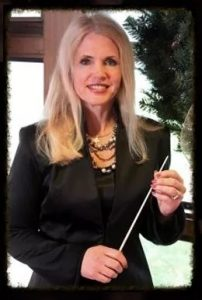
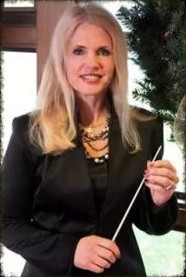
Deploying to gh-pages from @ funblaster22/IMSAband@9ff1ee3c521d04bfa2fb4868a1602b7d36afcda6 🚀

diff --git a/about/index.html b/about/index.html
@@ -1,1 +1,1 @@
-<!doctype html><html lang="en"><head><meta charset="utf-8"><link rel="icon" href="/IMSAband/public/favicon.png"><meta name="viewport" content="width=device-width,initial-scale=1"><link rel="stylesheet" type="text/css" href="/IMSAband/public/style.css"><script async src="https://www.googletagmanager.com/gtag/js?id=G-LPWGF8HK8P"></script><script src="/IMSAband/public/global.js"></script><title>About - IMSA Music</title><meta name="description" content="Get to know the band director"><meta name="robots" content="index,follow"><meta name="author" content="Ethan Dawes"><link rel="canonical" href="https://funblaster22.github.io/IMSAband/about/"><meta property="og:title" content="About - IMSA Music"><meta property="og:type" content="article"><meta property="og:url" content="https://funblaster22.github.io/IMSAband/about/"><meta property="og:description" content="Get to know the band director"><meta property="og:image" content="https://funblaster22.github.io/IMSAband/public/hl9pJ1HHdf-1313.jpeg"><meta name="twitter:card" content="summary"><meta name="twitter:url" content="https://funblaster22.github.io/IMSAband/about/"><meta name="twitter:title" content="About - IMSA Music"><meta name="twitter:description" content="Get to know the band director"><meta name="twitter:image" content="https://funblaster22.github.io/IMSAband/public/hl9pJ1HHdf-1313.jpeg"></head><body><a class="skip-to-content" href="#main">Skip to content</a><nav class="navbar navbar-expand-md navbar-dark"><a href="/IMSAband/"><img src="/IMSAband/public/favicon.png" alt="IMSA band logo" style="height:3em;width:auto"></a><a href="/IMSAband/pages/" class="navbar-toggler"><button type="button" data-bs-toggle="collapse" data-bs-target="#navbarNav" aria-controls="navbarNav" aria-expanded="false" aria-label="Toggle navigation"><span class="navbar-toggler-icon">☰</span></button></a><div class="collapse navbar-collapse" id="navbarNav"><ul class="navbar-nav"><li class="nav-item"><a href="/IMSAband/ensembles/band/" class="nav-link">Band</a></li><li class="nav-item"><a href="/IMSAband/ensembles/orchestra/" class="nav-link">Orchestra</a></li><li class="nav-item"><a href="/IMSAband/photos/" class="nav-link">Photos</a></li><li class="nav-item"><a href="/IMSAband/concerts/" class="nav-link">Concerts</a></li><li class="nav-item"><a href="https://funblaster22.github.io/PitchRead/" class="nav-link">Practice</a></li><li class="nav-item" aria-current="page"><a href="/IMSAband/about/" class="nav-link">About</a></li><li class="nav-item"><a href="/IMSAband/calendar/" class="nav-link">Calendar</a></li><li class="nav-item social"><a href="https://www.youtube.com/user/IMSAschool/search?query=concert" target="_blank" rel="noopener noreferrer" class="nav-link"><img src="/IMSAband/public/youtube.svg"></a></li><li class="nav-item social"><a href="https://www.facebook.com/IMSA-Music-Parents-Page-105564110884454/" target="_blank" rel="noopener noreferrer" class="nav-link"><img src="/IMSAband/public/facebook.svg"></a></li><li class="nav-item social"><a href="https://funblaster22.github.io/PitchRead/" target="_blank" class="nav-link"><img src="/IMSAband/public/music-note.svg"></a></li></ul></div></nav><a name="main"></a><main><style>.post{place-items:normal}.postTitle{font-size:4rem;line-height:1.1;margin-bottom:2rem}@media (min-width:768px){.wrapper{flex-direction:row!important;gap:1em}}.wrapper{display:flex;flex-direction:column}.suggestions{gap:1rem}.suggestions *{margin:0}</style><link rel="stylesheet" type="text/css" href="/IMSAband/public/card.css"><div class="parallax-container"><picture><source type="image/avif" srcset="/IMSAband/public/hl9pJ1HHdf-1313.avif 1313w"><img alt="" loading="lazy" decoding="async" style="" class="parallax hero hero-sm" src="/IMSAband/public/hl9pJ1HHdf-1313.jpeg" width="1313" height="636"></picture></div><div class="wrapper post"><div class="content"><h1 class="postTitle">About</h1><h3>Ms. McCarthy</h3><div><picture><source type="image/avif" srcset="/IMSAband/public/buWRGyJ4xz-202.avif 202w"><img alt="Mary Beth McCarthy" loading="lazy" decoding="async" style="float:left;margin:1em" class="" src="/IMSAband/public/buWRGyJ4xz-202.jpeg" width="202" height="300"></picture>Mary Beth McCarthy serves as the Director of instrumental Music at IMSA. During McCarthy’s initial tenure at IMSA, the department grew to include two choirs, two bands, and an orchestra. Since her return to IMSA, McCarthy has revitalized the Strolling Strings Ensemble and the Chamber Strings Orchestra, as well as has added a Symphony Orchestra to IMSA’s repertoire of performing ensembles. She began her music career performing with the Chicago and DuPage Youth Symphony Orchestras. As a violinist and flautist, Ms. McCarthy has performed under many batons, including those of Gordon Peters, Dudley Powers and John Svoboda. Her primary instruments were piano, violin and flute. She won a place in the International Bel Canto Competition, and worked towards performance preparation with Met Soprano Martina Arroyo, La Scala Bass Giorgio Tozzi and San Francisco Opera Coach Natalie Limonick. Since then, she has performed with the Lincoln Opera Company, and in a variety of primary roles in numerous area productions from oratorios to musicals. She also conducts area Instrumental Chamber Ensembles and serves as Conductor and Artistic Director of the Fox Valley Festival Chorus. Recent performances as a conductor or artist include Carnegie Hall (2013), Lincoln Center (2015), The Vatican (2017) and the Rock and Roll Hall of Fame, Mainstage (2019). Her many ensembles have performed at numerous venues, from the Julliard School of Music, NY, to the Javelena Recording Studios in Nashville, TN, to Casa Loma Castle in Canada. One of Ms. McCarthy’s favorite travel memories was when she conducted the Wind Ensemble, as they were performing The Stars and Stripes Forever on the steps of Congress. Another was with the Strolling Strings, when they were invited to perform at the Drake Hotel, Chicago, for Holiday Tea. In 2012, McCarthy received, an award of excellence for Service to the Kane County Community. The other two recipients were the Mayor of Aurora and the Kane County Sheriff. In 2017, Ms. McCarthy and her Ensemble, were presented with the Seal of the City of Aurora. A favorite research experience was work on a Richter Fellowship, which took her to the British Isles. The title of her narrative music/history project was “The Anglo-Irish Conflict Illustrated by the Folk Song.” While in the Isles, she traveled to Cambridge and Oxford and interviewed members of Parliament. McCarthy also interviewed both the Administration of the Cecil Sharp House, London and Michael O’Sullibaen, foremost authority of Irish Folk Music at the University of Cork, Ireland. Her current research pertains to problem-based learning and learner-center processing strategies that expedite student assimilation and absorption of music knowledge. Ms. McCarthy received her undergraduate degree from North Central College in Naperville and her graduate degree from Northwestern University in Evanston. She served on the Northwestern Alumni Board of Directors for five years. Some of her professional affiliations include the Music Educators’ National Conference (MENC), the Illinois Music Educators Association (ILMEA), and the Association for Supervision and Curriculum Development (ASCD).</div><h3>Student Credits</h3><ul><li>Ethan Dawes: Programmer</li><li>Ebba Kaulas: Logo designer</li><li>Cole Plepel: Design prototyping</li><li>Christian Cline: Photos</li></ul></div><div class="suggestions" style="display:flex;flex-direction:column;align-items:center;flex-grow:1"><h3>Related:</h3><a href="."><div class="card"><picture><source type="image/avif" srcset="/IMSAband/public/olwqoCmvtF-4032.avif 4032w"><img alt="" loading="lazy" decoding="async" style="" class="" src="/IMSAband/public/olwqoCmvtF-4032.jpeg" width="4032" height="3024"></picture><em>2022-01-23</em> <strong>New Website!</strong> IMSA bands now have their own website!</div></a></div></div></main><footer class="footer" style="background-color:#000"><picture><source type="image/avif" srcset="/IMSAband/public/-fcQluZmzO-2832.avif 2832w"><img alt="IMSA Titans logo" loading="lazy" decoding="async" style="max-width:100%;object-fit:contain;max-height:190px" class="" src="/IMSAband/public/-fcQluZmzO-2832.jpeg" width="2832" height="1523"></picture></footer></body></html>
+<!doctype html><html lang="en"><head><meta charset="utf-8"><link rel="icon" href="/IMSAband/public/favicon.png"><meta name="viewport" content="width=device-width,initial-scale=1"><link rel="stylesheet" type="text/css" href="/IMSAband/public/style.css"><script async src="https://www.googletagmanager.com/gtag/js?id=G-LPWGF8HK8P"></script><script src="/IMSAband/public/global.js"></script><title>About - IMSA Music</title><meta name="description" content="Get to know the band director"><meta name="robots" content="index,follow"><meta name="author" content="Ethan Dawes"><link rel="canonical" href="https://funblaster22.github.io/IMSAband/about/"><meta property="og:title" content="About - IMSA Music"><meta property="og:type" content="article"><meta property="og:url" content="https://funblaster22.github.io/IMSAband/about/"><meta property="og:description" content="Get to know the band director"><meta property="og:image" content="https://funblaster22.github.io/IMSAband/public/hl9pJ1HHdf-1313.jpeg"><meta name="twitter:card" content="summary"><meta name="twitter:url" content="https://funblaster22.github.io/IMSAband/about/"><meta name="twitter:title" content="About - IMSA Music"><meta name="twitter:description" content="Get to know the band director"><meta name="twitter:image" content="https://funblaster22.github.io/IMSAband/public/hl9pJ1HHdf-1313.jpeg"></head><body><a class="skip-to-content" href="#main">Skip to content</a><nav class="navbar navbar-expand-md navbar-dark"><a href="/IMSAband/"><img src="/IMSAband/public/favicon.png" alt="IMSA band logo" style="height:3em;width:auto"></a><a href="/IMSAband/pages/" class="navbar-toggler"><button type="button" data-bs-toggle="collapse" data-bs-target="#navbarNav" aria-controls="navbarNav" aria-expanded="false" aria-label="Toggle navigation"><span class="navbar-toggler-icon">☰</span></button></a><div class="collapse navbar-collapse" id="navbarNav"><ul class="navbar-nav"><li class="nav-item"><a href="/IMSAband/ensembles/band/" class="nav-link">Band</a></li><li class="nav-item"><a href="/IMSAband/ensembles/orchestra/" class="nav-link">Orchestra</a></li><li class="nav-item"><a href="/IMSAband/photos/" class="nav-link">Photos</a></li><li class="nav-item"><a href="/IMSAband/concerts/" class="nav-link">Concerts</a></li><li class="nav-item"><a href="https://funblaster22.github.io/PitchRead/" class="nav-link">Practice</a></li><li class="nav-item" aria-current="page"><a href="/IMSAband/about/" class="nav-link">About</a></li><li class="nav-item"><a href="/IMSAband/calendar/" class="nav-link">Calendar</a></li><li class="nav-item social"><a href="https://www.youtube.com/user/IMSAschool/search?query=concert" target="_blank" rel="noopener noreferrer" class="nav-link"><img src="/IMSAband/public/youtube.svg"></a></li><li class="nav-item social"><a href="https://www.facebook.com/IMSA-Music-Parents-Page-105564110884454/" target="_blank" rel="noopener noreferrer" class="nav-link"><img src="/IMSAband/public/facebook.svg"></a></li><li class="nav-item social"><a href="https://funblaster22.github.io/PitchRead/" target="_blank" class="nav-link"><img src="/IMSAband/public/music-note.svg"></a></li></ul></div></nav><a name="main"></a><main><style>.post{place-items:normal}.postTitle{font-size:4rem;line-height:1.1;margin-bottom:2rem}@media (min-width:768px){.wrapper{flex-direction:row!important;gap:1em}}.wrapper{display:flex;flex-direction:column}.suggestions{gap:1rem}.suggestions *{margin:0}</style><link rel="stylesheet" type="text/css" href="/IMSAband/public/card.css"><div class="parallax-container"><picture><source type="image/avif" srcset="/IMSAband/public/hl9pJ1HHdf-1313.avif 1313w"><img alt="" loading="lazy" decoding="async" style="" class="parallax hero hero-sm" src="/IMSAband/public/hl9pJ1HHdf-1313.jpeg" width="1313" height="636"></picture></div><div class="wrapper post"><div class="content"><h1 class="postTitle">About</h1><h3>Ms. McCarthy</h3><div><picture><source type="image/avif" srcset="/IMSAband/public/uz9sRX7h0c-186.avif 186w"><img alt="Mary Beth McCarthy" loading="lazy" decoding="async" style="float:left;margin:1em" class="" src="/IMSAband/public/uz9sRX7h0c-186.jpeg" width="186" height="277"></picture>Mary Beth McCarthy serves as the Director of instrumental Music at IMSA. During McCarthy’s initial tenure at IMSA, the department grew to include two choirs, two bands, and an orchestra. Since her return to IMSA, McCarthy has revitalized the Strolling Strings Ensemble and the Chamber Strings Orchestra, as well as has added a Symphony Orchestra to IMSA’s repertoire of performing ensembles. She began her music career performing with the Chicago and DuPage Youth Symphony Orchestras. As a violinist and flautist, Ms. McCarthy has performed under many batons, including those of Gordon Peters, Dudley Powers and John Svoboda. Her primary instruments were piano, violin and flute. She won a place in the International Bel Canto Competition, and worked towards performance preparation with Met Soprano Martina Arroyo, La Scala Bass Giorgio Tozzi and San Francisco Opera Coach Natalie Limonick. Since then, she has performed with the Lincoln Opera Company, and in a variety of primary roles in numerous area productions from oratorios to musicals. She also conducts area Instrumental Chamber Ensembles and serves as Conductor and Artistic Director of the Fox Valley Festival Chorus. Recent performances as a conductor or artist include Carnegie Hall (2013), Lincoln Center (2015), The Vatican (2017) and the Rock and Roll Hall of Fame, Mainstage (2019). Her many ensembles have performed at numerous venues, from the Julliard School of Music, NY, to the Javelena Recording Studios in Nashville, TN, to Casa Loma Castle in Canada. One of Ms. McCarthy’s favorite travel memories was when she conducted the Wind Ensemble, as they were performing The Stars and Stripes Forever on the steps of Congress. Another was with the Strolling Strings, when they were invited to perform at the Drake Hotel, Chicago, for Holiday Tea. In 2012, McCarthy received, an award of excellence for Service to the Kane County Community. The other two recipients were the Mayor of Aurora and the Kane County Sheriff. In 2017, Ms. McCarthy and her Ensemble, were presented with the Seal of the City of Aurora. A favorite research experience was work on a Richter Fellowship, which took her to the British Isles. The title of her narrative music/history project was “The Anglo-Irish Conflict Illustrated by the Folk Song.” While in the Isles, she traveled to Cambridge and Oxford and interviewed members of Parliament. McCarthy also interviewed both the Administration of the Cecil Sharp House, London and Michael O’Sullibaen, foremost authority of Irish Folk Music at the University of Cork, Ireland. Her current research pertains to problem-based learning and learner-center processing strategies that expedite student assimilation and absorption of music knowledge. Ms. McCarthy received her undergraduate degree from North Central College in Naperville and her graduate degree from Northwestern University in Evanston. She served on the Northwestern Alumni Board of Directors for five years. Some of her professional affiliations include the Music Educators’ National Conference (MENC), the Illinois Music Educators Association (ILMEA), and the Association for Supervision and Curriculum Development (ASCD).</div><h3>Student Credits</h3><ul><li>Ethan Dawes: Programmer</li><li>Ebba Kaulas: Logo designer</li><li>Cole Plepel: Design prototyping</li><li>Christian Cline: Photos</li></ul></div><div class="suggestions" style="display:flex;flex-direction:column;align-items:center;flex-grow:1"><h3>Related:</h3><a href="."><div class="card"><picture><source type="image/avif" srcset="/IMSAband/public/olwqoCmvtF-4032.avif 4032w"><img alt="" loading="lazy" decoding="async" style="" class="" src="/IMSAband/public/olwqoCmvtF-4032.jpeg" width="4032" height="3024"></picture><em>2022-01-23</em> <strong>New Website!</strong> IMSA bands now have their own website!</div></a></div></div></main><footer class="footer" style="background-color:#000"><picture><source type="image/avif" srcset="/IMSAband/public/-fcQluZmzO-2832.avif 2832w"><img alt="IMSA Titans logo" loading="lazy" decoding="async" style="max-width:100%;object-fit:contain;max-height:190px" class="" src="/IMSAband/public/-fcQluZmzO-2832.jpeg" width="2832" height="1523"></picture></footer></body></html>
